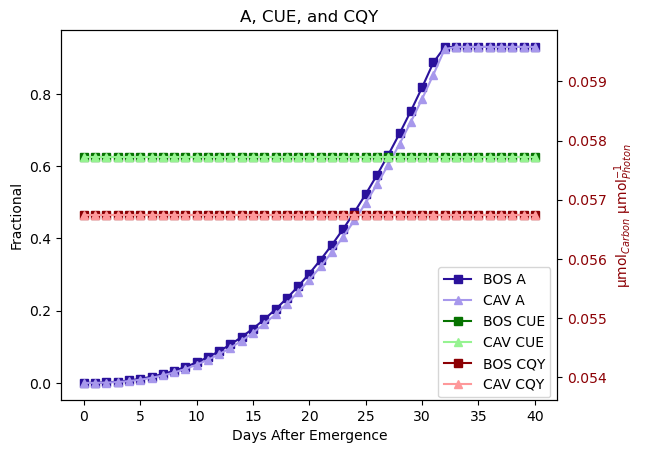
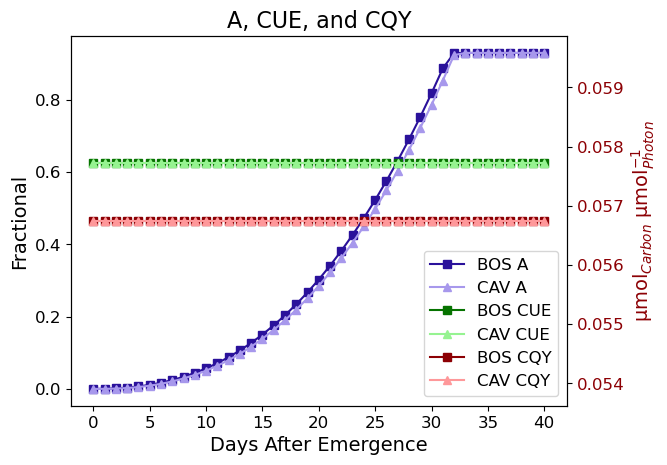
Fancy charts now have large fonts!

Changed region(s): [[0.0, 0.0, 0.9922, 0.989]]

diff --git a/ABC Comp file.py b/ABC Comp file.py
@@ -1,6 +1,9 @@
 import pandas as pd
 import matplotlib.pyplot as plt
 import numpy as np
+# import sklearn as sklearn
+# from sklearn.metrics import mean_squared_error
+# from math import sqrt
 
 # #################################################
 # ################# MODEL INPUTS ##################
@@ -567,7 +570,6 @@ bigdf.to_csv('C:/Users/donal/Documents/Github/Modified-Energy-Cascade/ABC_comp.c
 # # print(bigdf)
 print('Dataframes Merged')
 
-
 '''  
     perhaps I can write some kind of script to set these
     so I don't have to write it out completely each time?
@@ -588,9 +590,9 @@ print('Dataframes Merged')
         light red   = #FE989A
 '''
 
-#################################################
-##############   Start Charting  ################
-#################################################
+################################################
+#############   Start Charting  ################
+################################################
 
 ##### Alpha and Beta Comparison ##############
 fig, ax = plt.subplots()
@@ -601,10 +603,11 @@ ax.plot(bigdf['Day'], bigdf['AMI_beta'],        marker='o', color='#2A119B',    
 ax.plot(bigdf['Day'], bigdf['BOS_AVG_BETA'],    marker='s', color='#5E46C6',    label='BOS β')
 ax.plot(bigdf['Day'], bigdf['CAV_BETA'],        marker='^', color='#A798EC',    label='CAV β')
 # ax.set_ylabel('Unsure about units')
-ax.set_xlabel('Days After Emergence')
-plt.figlegend(bbox_to_anchor=(-0.21, 0.39, 0.5, 0.5))
-plt.title('Alpha and Beta')
-plt.savefig('C:/Users/donal/Documents/GitHub/Modified-Energy-Cascade/Comparison Charts/Alpha_Beta_Comparison.png') #there are many options for savefig
+ax.set_xlabel('Days After Emergence', fontsize= 14)
+ax.tick_params(labelsize= 12)
+plt.figlegend(bbox_to_anchor=(-0.18, 0.39, 0.5, 0.5), prop={'size': 12})
+plt.title('Alpha and Beta', fontsize= 16)
+plt.savefig('C:/Users/donal/Documents/GitHub/Modified-Energy-Cascade/Comparison Charts/Alpha_Beta_Comparison.png', bbox_inches='tight') #there are many options for savefig
 plt.show()
 
 #################### A, CQY, CUE, ###################################
@@ -613,15 +616,16 @@ ax.plot(bigdf['Day'], bigdf['BOS_AVG_A'],      marker='s', color='#2A119B',  lab
 ax.plot(bigdf['Day'], bigdf['CAV_A'],          marker='^', color='#A798EC',  label='CAV A')
 ax.plot(bigdf['Day'], bigdf['BOS_AVG_CUE_24'], marker='s', color='#067300',  label='BOS CUE')
 ax.plot(bigdf['Day'], bigdf['CAV_CUE_24'],     marker='^', color='#96F391',  label='CAV CUE')
-ax.set_ylabel('Fractional')
+ax.set_ylabel('Fractional', fontsize= 14)
 ax2 = ax.twinx()
 ax2.plot(bigdf['Day'], bigdf['BOS_AVG_CQY'],    marker='s', color='#8C0004', label='BOS CQY')
 ax2.plot(bigdf['Day'], bigdf['CAV_CQY'],        marker='^', color='#FE989A',  label='CAV CQY')
-ax2.set_ylabel('μmol$_{Carbon}$ μmol$_{Photon}^{-1}$', color='#8C0004')
-ax2.tick_params(axis='y',labelcolor='#8C0004')
-ax.set_xlabel('Days After Emergence')
-plt.figlegend(bbox_to_anchor=(0.40, -0.1, 0.5, 0.5))
-plt.title('A, CUE, and CQY')
+ax2.set_ylabel('μmol$_{Carbon}$ μmol$_{Photon}^{-1}$', color='#8C0004', fontsize= 14)
+ax2.tick_params(axis='y', labelcolor='#8C0004', labelsize=12)
+ax.set_xlabel('Days After Emergence', fontsize= 14)
+ax.tick_params(labelsize= 12)
+plt.figlegend(bbox_to_anchor=(0.40, -0.05, 0.5, 0.5), prop={'size': 12})
+plt.title('A, CUE, and CQY', fontsize= 16)
 plt.savefig('C:/Users/donal/Documents/GitHub/Modified-Energy-Cascade/Comparison Charts/A_CUE_CQY_Comparison.png', bbox_inches='tight') #there are many options for savefig
 plt.show()
 
@@ -634,11 +638,12 @@ ax.plot(bigdf['Day'], bigdf['AMI_g_C'],     marker='o', color='#2A119B',     lab
 ax.plot(bigdf['Day'], bigdf['BOS_AVG_g_C'], marker='s', color='#5E46C6',     label='BOS g$_C$')
 ax.plot(bigdf['Day'], bigdf['CAV_g_C'],     marker='^', color='#A798EC',     label='CAV g$_C$')
 ax.plot(bigdf['Day'], bigdf['OBS_g_S'],     marker='.', color='black',       label='Observed g$_S$')
-ax.set_ylabel('mol$_{water}$ m$^{-2}$ second $^{-1}$')
-ax.set_xlabel('Days After Emergence')
-plt.figlegend(bbox_to_anchor=(-0.13, 0.39, 0.5, 0.5))
-plt.title('Conductances')
-plt.savefig('C:/Users/donal/Documents/GitHub/Modified-Energy-Cascade/Comparison Charts/Conductances_Comparison.png') #there are many options for savefig
+ax.set_ylabel('mol$_{water}$ m$^{-2}$ second $^{-1}$', fontsize= 14)
+ax.set_xlabel('Days After Emergence', fontsize= 14)
+ax.tick_params(labelsize= 12)
+plt.figlegend(bbox_to_anchor=(-0.1, 0.39, 0.5, 0.5), prop={'size': 12})
+plt.title('Conductances', fontsize= 16)
+plt.savefig('C:/Users/donal/Documents/GitHub/Modified-Energy-Cascade/Comparison Charts/Conductances_Comparison.png', bbox_inches='tight') #there are many options for savefig
 plt.show()
 
 ################ Gas Exchanges ######################
@@ -646,15 +651,16 @@ fig, ax= plt.subplots()
 ax.plot(bigdf['Day'], bigdf['AMI_DTR'],     marker='o', color='#067300',  label='AMI DTR')
 ax.plot(bigdf['Day'], bigdf['BOS_AVG_DTR'], marker='s', color='#09B600',  label='BOS DTR')
 ax.plot(bigdf['Day'], bigdf['CAV_DTR'],     marker='^', color='#96F391',  label='CAV DTR')
-ax.plot(bigdf['Day'], bigdf['OBS_DTR'],     marker='.', color='black',    label='Observed')
-ax.set_ylabel('L$_{water}$ m$^{-2}$ day$^{-1}$')
-ax.set_xlabel('Days After Emergence')
-plt.figlegend(bbox_to_anchor=(-0.175, 0.39, 0.5, 0.5))
-plt.title('Gas Exchanges')
-plt.savefig('C:/Users/donal/Documents/GitHub/Modified-Energy-Cascade/Comparison Charts/Gas_Exchange_Comparison.png') #there are many options for savefig
+ax.plot(bigdf['Day'], bigdf['OBS_DTR'],     marker='.', color='black',    label='Observed DTR')
+ax.set_ylabel('L$_{water}$ m$^{-2}$ day$^{-1}$', fontsize= 14)
+ax.set_xlabel('Days After Emergence', fontsize= 14)
+ax.tick_params(labelsize= 12)
+plt.figlegend(bbox_to_anchor=(-0.075, 0.39, 0.5, 0.5), prop={'size': 12})
+plt.title('Daily Transpiration Rate', fontsize= 16)
+plt.savefig('C:/Users/donal/Documents/GitHub/Modified-Energy-Cascade/Comparison Charts/Gas_Exchange_Comparison.png', bbox_inches='tight') #there are many options for savefig
 plt.show()
 
-############### Photosynthesis #####################
+############## Photosynthesis #####################
 fig, ax = plt.subplots()
 ax.plot(bigdf['Day'], bigdf['AMI_P_GROSS'],     marker='o', color='#067300',      label='AMI P$_{GROSS}$')
 ax.plot(bigdf['Day'], bigdf['CAV_P_GROSS'],     marker='^', color='#09B600', label='CAV P$_{GROSS}$')
@@ -662,11 +668,12 @@ ax.plot(bigdf['Day'], bigdf['AMI_P_NET'],       marker='o', color='#2A119B',    
 ax.plot(bigdf['Day'], bigdf['BOS_AVG_P_NET'],   marker='s', color='#5E46C6',    label='BOS P$_{NET}$')
 ax.plot(bigdf['Day'], bigdf['CAV_P_NET'],       marker='^', color='#A798EC',    label='CAV P$_{NET}$')
 ax.plot(bigdf['Day'], bigdf['OBS_P_N'],         marker='.', color='black',      label='Observed P$_{NET}$')
-ax.set_ylabel('μmol$_{Carbon}$ m$^{-2}$ second$^{-1}$')
-ax.set_xlabel('Days After Emergence')
-plt.figlegend(bbox_to_anchor=(-0.125, 0.39, 0.5, 0.5))
-plt.title('Photosynthesis')
-plt.savefig('C:/Users/donal/Documents/GitHub/Modified-Energy-Cascade/Comparison Charts/Photosynthesis_Comparison.png') #there are many options for savefig
+ax.set_ylabel('μmol$_{Carbon}$ m$^{-2}$ second$^{-1}$', fontsize= 14)
+ax.set_xlabel('Days After Emergence', fontsize= 14)
+ax.tick_params(labelsize= 12)
+plt.figlegend(bbox_to_anchor=(-0.075, 0.39, 0.5, 0.5), prop={'size': 12})
+plt.title('Photosynthesis', fontsize= 16)
+plt.savefig('C:/Users/donal/Documents/GitHub/Modified-Energy-Cascade/Comparison Charts/Photosynthesis_Comparison.png', bbox_inches='tight') #there are many options for savefig
 plt.show()
 
 #################### Daily Carbon Gain ###################################
@@ -674,30 +681,34 @@ fig, ax = plt.subplots()
 ax.plot(bigdf['Day'], bigdf['AMI_DCG'],      marker='o', color='#067300',   label='AMI DCG')
 ax.plot(bigdf['Day'], bigdf['BOS_TOT_DCG'],  marker='s', color='#09B600',       label='BOS DCG')
 ax.plot(bigdf['Day'], bigdf['CAV_DCG'],      marker='^', color='#96F391',  label='CAV DCG')
-ax.set_xlabel('Days After Emergence')
-ax.set_ylabel('mol$_{Carbon}$ m$^{-2}$ day$^{-1}$')
-plt.figlegend(bbox_to_anchor=(-0.18, 0.39, 0.5, 0.5))
-plt.title('Daily Carbon Gain')
-plt.savefig('C:/Users/donal/Documents/GitHub/Modified-Energy-Cascade/Comparison Charts/DCG_Comparison.png') #there are many options for savefig
+ax.set_xlabel('Days After Emergence', fontsize= 14)
+ax.set_ylabel('mol$_{Carbon}$ m$^{-2}$ day$^{-1}$', fontsize= 14)
+ax.tick_params(labelsize= 12)
+plt.figlegend(bbox_to_anchor=(-0.14, 0.39, 0.5, 0.5), prop={'size': 12})
+plt.title('Daily Carbon Gain', fontsize= 16)
+plt.savefig('C:/Users/donal/Documents/GitHub/Modified-Energy-Cascade/Comparison Charts/DCG_Comparison.png', bbox_inches='tight') #there are many options for savefig
 plt.show()
 
 ################### Crop Productivity ###################################
 fig, ax = plt.subplots()
 ax.plot(bigdf['Day'], bigdf['AMI_TEB'],      marker='o', color='#067300',  label='AMI TEB')
+ax.plot(bigdf['Day'], bigdf['AMI_TEB'],      marker='o', color='#067300',  label='AMI TEB')
 ax.plot(bigdf['Day'], bigdf['CAV_TEB'],      marker='^', color='#09B600',  label='CAV TEB')
 ax.plot(bigdf['Day'], bigdf['CAV_TCB'],      marker='^', color='#96F391',  label='CAV TCB')
 ax.plot(bigdf['Day'], bigdf['OBS_TEB'],      marker='.', color='black',    label='Observed TEB')
-ax.set_ylabel('grams m$^{-2}$', color='#09B600')
+ax.set_ylabel('grams m$^{-2}$', color='#09B600', fontsize= 14)
 ax.tick_params(axis='y', labelcolor='#09B600')
 ax2 = ax.twinx()
 ax2.plot(bigdf['Day'], bigdf['AMI_CGR'],      marker='o', color='#8C0004', label='AMI CGR')
 ax2.plot(bigdf['Day'], bigdf['BOS_TOT_DCGR'], marker='s', color='#DF0006', label='BOS CGR')
 ax2.plot(bigdf['Day'], bigdf['CAV_CGR'],      marker='^', color='#FE989A', label='CAV CGR')
-ax2.set_ylabel('grams m$^{-2}$ day$^{-1}$', color='#DF0006')
+ax2.set_ylabel('grams m$^{-2}$ day$^{-1}$', color='#DF0006', fontsize= 14)
 ax2.tick_params(axis='y',labelcolor='#DF0006')
-ax.set_xlabel('Days After Emergence')
-plt.figlegend(bbox_to_anchor=(-0.13, 0.39, 0.5, 0.5))
-plt.title('Crop Productivity')
-plt.savefig('C:/Users/donal/Documents/GitHub/Modified-Energy-Cascade/Comparison Charts/Crop_Productivity_Comparison.png') #there are many options for savefig
+ax.set_xlabel('Days After Emergence', fontsize= 14)
+ax.tick_params(labelsize= 12)
+ax2.tick_params(labelsize= 12)
+plt.figlegend(bbox_to_anchor=(-0.08, 0.39, 0.5, 0.5), prop={'size': 12})
+plt.title('Crop Productivity', fontsize= 16)
+plt.savefig('C:/Users/donal/Documents/GitHub/Modified-Energy-Cascade/Comparison Charts/Crop_Productivity_Comparison.png', bbox_inches='tight') #there are many options for savefig
 plt.show()
 
